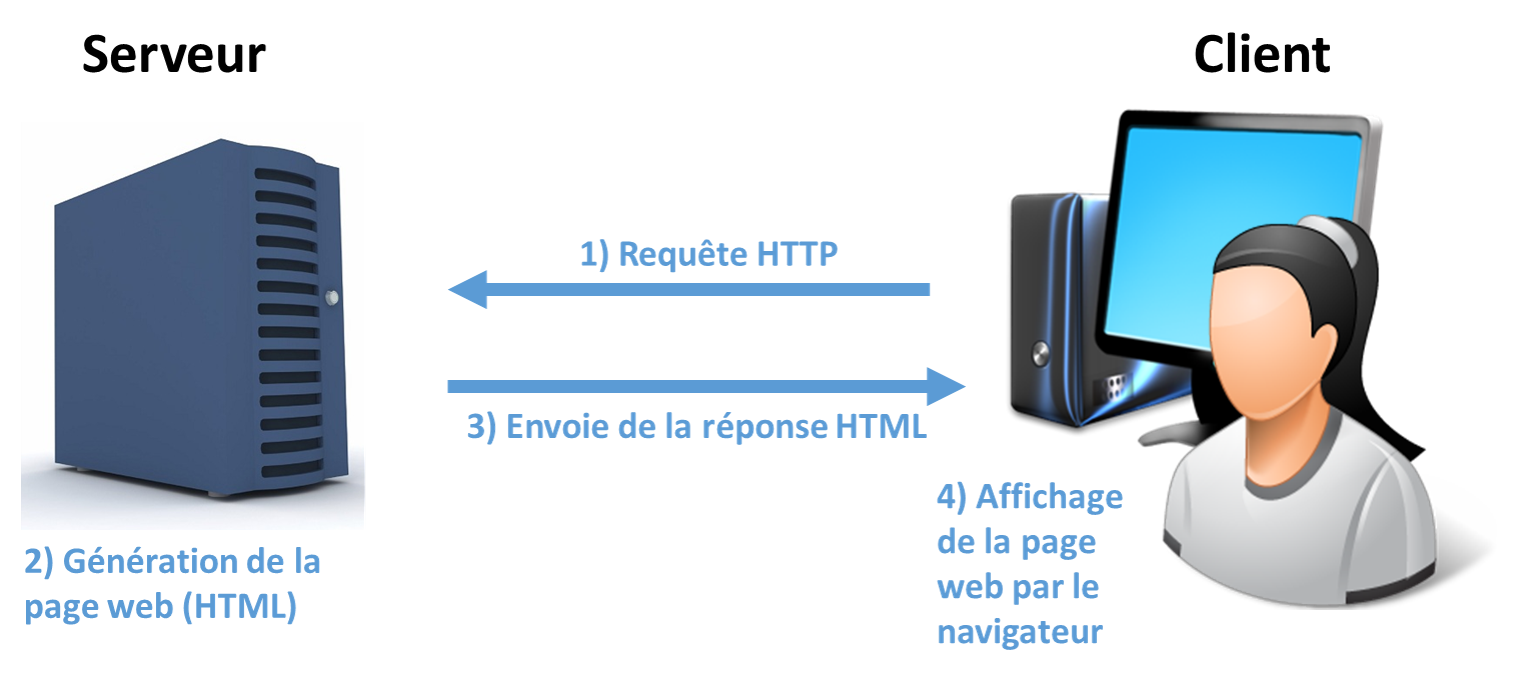
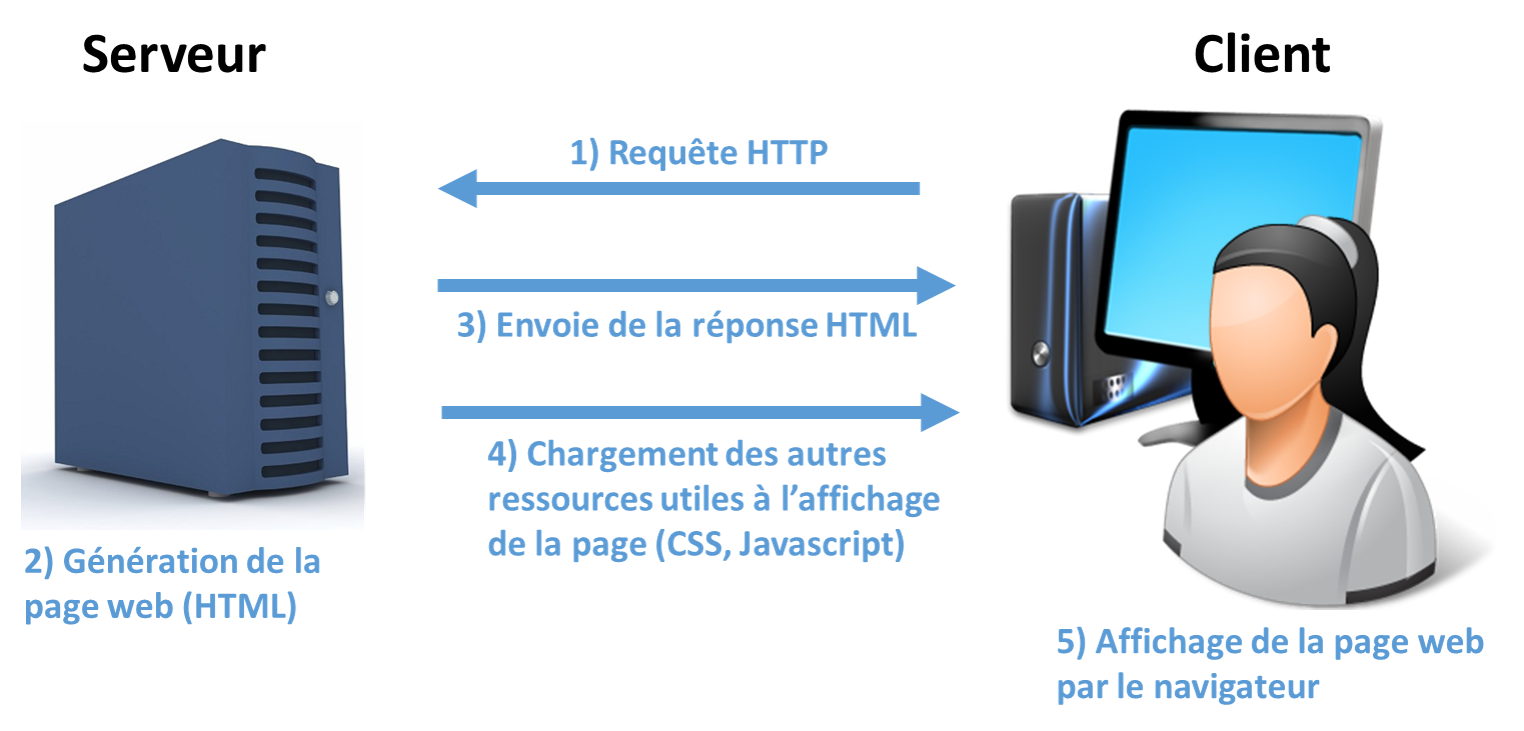
Partie 3 + page de garde :
Début page de garde + explication de l'architeture actuelle de TC

diff --git a/src/p3.tex b/src/p3.tex
@@ -2,11 +2,12 @@
 statistique}
 	\paragraph{}
 	Dans la partie précédente nous avons proposé une solution fonctionnelle aux
-	besoins exprimés par les utilisateurs. Ici, nous allons concevoir une solution
-	technique à partir des focntionnalités, puis l'implémenter. La partie A
-	présentera l'architecture actuelle de TrackCIS, dans la partie B nous
-	conceverons la solution technique et la partie C présentera la méthodologie
-	d'implémentation de cette solution. Enfin, dans la partie D, nous ferons le
+	besoins exprimés par les utilisateurs. Ici, nous allons concevoir la solution
+	technique à partir des fonctionnalités, puis l'implémenter c'est-à-dire en
+	écrire le code.
+	La partie A présentera l'architecture actuelle de TrackCIS. La partie B
+	présentra la conception de la solution technique. Enfin, la partie C présentera
+	la méthodologie d'implémentation de cette solution. Enfin, dans la partie D, nous ferons le
 	bilan de ce qui a effectivement pus être implémenté au cours de ce projet et
 	nous discuterons des limites et des biais de la méthodologie ainsi que des
 	suites possibles pour Xperis.
@@ -16,99 +17,174 @@ statistique}
 		\subsection{Qu'est-ce qu'une application web ?}
 			\paragraph{}% Modèle client serveur classique
 			TrackCIS est une application accessible depuis un navigateur internet, il
-			s'agit d'une application web. Le fonctionnement de cet type d'application est
-			basé sur le modèle client-serveur. Un client correspond au navigateur
-			internet de l'utilisateur (Chrome, FireFox\ldots), il permet de communiquer
-			avec le serveur. Le serveur est la machine sur
+			s'agit d'une application web. CLassiquement, le fonctionnement de ce type
+			d'application est basé sur le modèle dit <<client-serveur>>. Un client
+			correspond au navigateur internet de l'utilisateur (Chrome, FireFox\ldots),
+			il permet de communiquer avec le serveur. Ce dernier est une machine sur
 			laquelle est déployée l'application web. Le client envoie une requête au
-			serveur qui va la traiter et produire en retour une page web, c'est-à-dire
-			une page HTML (Hypertext Markup Language) laquelle va être renvoyée au client
-			et affichée.
-			
-			Il est installé au niveau d'un serveur,
-			généralement citué au sein de l'établissement hospitalier et connecté au
-			réseau local. La machine de l'utilisateur, que l'on appel le client, ce
-			connecte à ce serveur. Ce dernier reçoit de la part du client une requête
-			HTTP (protocole standard d'échange sur internet).
-			% Le client fait une requête à laquelle le serveur répond en envoyant une
-			% page HTML
-			
+			serveur qui va la traiter et générer en retour une page web au format HTML
+			(Hypertext Markup Language) qui est renvoyée au client puis affichée
+			(figure \ref{client_serveur}). La requête utilise le protocole HTTP
+			(Hyperttext transfert protocole) qui est le protocole standard des échanges
+			sur le net. La page HTML contient toues les inforamtions permettant au
+			navigateur d'afficher la page. Cette page peut faire appel à d'autres
+			ressources comme des pages CSS (Cascading style sheets) ou des script
+			Javascript. CSS est un langage descriptif permettant de mettre en forme le contenu de la page HTML.
+			Javascript est également un langage qui est interprété par le client et qui
+			permet de gérer les léments dynamiques de la page web (annimations, gestion
+			des évennements lorsque l'utilisateur clic sur un bouton\ldots).
 			\begin{figure}[H]
 				\centering
 				\includegraphics[width=10cm]{../img/part3/client_serveur.png}
-				\caption{\label{modele_donnee} Le serveur génère dynamiquement la page
+				\caption{\label{client_serveur} Le serveur génère dynamiquement la page
 				HTML qui sera affichée sur le poste client.}
 			\end{figure}
 			
-			% Le navigateur interprète le HTML et en affiche le contenu correspondant
-			
-			% Dans le même temps, le serveur envoi au client des scripts Javascript. Le
-			% client est capable d'interpréter ces scripts. Ils permettent de faire des
-			% interactions entre l'utilisateur et l'application sans faire d'appel au
-			% serveur
-			
 			\paragraph{}% Modèle AJAX
-			Une variante du modèle client-serveur existe, il s'agit du modèle AJAX. La
-			limite du modèle précédent est que toute la page doit être renvoyée par le
-			serveur a chaque requête (par exemple dès que l'utilisateur fait une action
-			sur la page). Cela pose deux problèmes : d'une part beaucoup de données
-			transitent entre le client et le serveur, d'autre part le rechargement
-			complet de la page prend du temps ce qui nui à l'expérience de l'utilisateur.
-			Le modèle AJAX, sur lequell repose TrackCIS, consiste à ne recharger que les
-			parties de la page qui sont nécessaire sans toucher aux autres. Par exemple,
-			dans le cas de l'affichage de la liste des messages entre une date de début
-			et une date de fin, si l'utilisateur modifie la période, seule la liste des
-			messages sera rechargée. Le reste de la page (menu, pieds de page,
-			entête\ldots) ne changera pas.
+			Une variante du modèle client-serveur permet d'en augmenté la rapidité, il
+			s'agit du modèle AJAX (Asynchronous Javascript and XML).
+			Dans le modèle précédent, toute la page doit être renvoyée par le
+			serveur à chaque requête, ce qui n'est pas forcément utile. Cela pose deux
+			problèmes :
+			d'une part beaucoup de données transitent entre le client et le serveur,
+			d'autre part le rechargement complet de la page prend du temps ce qui nuit à
+			l'expérience de l'utilisateur.
+			Le modèle AJAX, sur lequelle repose TrackCIS, consiste à ne recharger que les
+			parties de la page qui sont concernées par la modification sans toucher aux
+			autres.
+			Par exemple, dans le cas de l'affichage de la liste des messages entre une
+			date de début et une date de fin, si l'utilisateur modifie la période, seule
+			la liste des messages sera rechargée. Le reste de la page (menu, pieds de
+			page, entête\ldots) ne sera pas renvoyé par le serveur. Les appels AJAX sont
+			réalisés au niveau des scripts Javascript, donc côté client.
 			
 		\subsection{TrackCIS est composé d'un frontal et d'une API}
 			\paragraph{}% Archi générale de l'application
-			TrackCIS est divisée en deux parties
-			
+			TrackCIS sur les modèles client-serveur et AJAX. Les deux
+			premiers éléments de l'architecture sont le client (le navigateur internet
+			de l'utilisateur) et le serveur hébergant l'application web stricto-sensu,
+			que nous appelerons dans la suit le <<Frontal>> (figure
+			\ref{archi_trackcis}).
+			Celui-ci reçoit et traite les requêtes du client. Le Frontal ne communique pas directement avec
+			CLoverleaf, c'est une autre partie de l'architecture qui s'en charge : l'API.
+			API sigifi Interface de propgrammation applicatve. C'est un intermédiaire
+			entre deux applications. En l'occurence, l'API est l'intermédiaire entre le
+			Frontal, qui a pour but d'afficher une page web, et Cloverleaf. Prenons un
+			exemple : le client envoie une requête au Frontal pour afficher la liste de
+			tous les messages passé sur un flux donné durant une période donnée. Le
+			Frontal reçoi la requête et envoie à son tour une autre requête à l'API.
+			Cette dernière récupère les informations demandées auprès de CLoverleaf et
+			les transmet au Frontal. Enfin, celui-ci génère la page HTML avec la liste
+			des messages et la renvoie au client.\newline
+			API et Frontal sont deux entitées séparées, toutes deux développées par
+			Xperis. Ils ne sont généralement pas déployés sur le même serveur. L'API est
+			nécessairement installée sur le même serveur que CLoverleaf, le Frontal est
+			lui généralement installé sur un serveur à part situé au
+			sein de l'établissement hospitalier d'un serveur.
 			\begin{figure}[H]% Architecture globale de l'application
 				\centering
 				\includegraphics[width=10cm]{../img/part3/archi_trackcis.png}
 				\caption{\label{archi_trackcis} TrackCIS est composés de deux éléments
-				distincts pouvant se trouver sur des serveurs différents.}
+				distincts pouvant se trouver sur deux serveurs différents.}
 			\end{figure}
-			
-			\paragraph{}% Les bases de java et de la POO
-			Le frontal et l'API sont tous deux développés avec le langage Java.
+			Frontal et API sont tous deux développés avec le langage Java.
 			
 		\subsection{Le frontal est développé en java J2EE}
 			\paragraph{}% les grandes lignes de l'archi du front
 			Java Entreprise Edition, que nous désignerons par J2EE, est une
-			plateforme (un ensemble de bibliothèques) basée sur le langage Java et
-			destinée au développement web.
+			plateforme basée sur le langage Java et destinée au développement web. Il
+			s'agit d'un ensemble de bibliothèques Java mettant à dispostion des
+			développeurs les éléments nécessaire au développement d'une application
+			web.
+			
+			\paragraph{}
+			Java à la particularité d'être un langage orienté objet. Le code est organisé
+			en classes. Chaque classe peut possèder un certain nombre d'attributs
+			(données stockées sous la forme de variables) et de méthodes (opérations
+			que la classe est capable d'effectuer).La figure \ref{archi_actuelle_front}
+			résume l'architecture actuelle du Frontla de TrackCIS. Chaque bloc représente
+			un groupe de classes ayant des rôles similaires. Globalement, le Frontal
+			respecte l'architecture dite MVC (Modèle, contrôle, vue) qui permet de
+			diviser le code en trois grand rôle : les traitements (Modèle) la génération
+			de la page HTML (la Vue) et des classes faisant office d'intermédiaire entre
+			Modèle et Vue (les Contrpoleur). (1) La requête HTTP envoyée par le client et
+			reçue au niveau des classes dites <<contrôleur>>. Ces classes en font appel
+			à d'autres : les classes de service. Celle-ci effectuent les oppérations les
+			plus complexes (2). Les classes de répertoire (ou repositories) communiquent
+			avec la base de donnée (3). Cette dernière permet de stocker les préférences
+			des utilsateurs ainsi que d'autres données permettant de se connecter à
+			l'API (adresse du serveur de CLoverleaf, port utilisé\ldots). Les classes de
+			répertoire permettent d'envoyer des requêtes SQL à cette base de données
+			pour en lire les informations ou les mettre à jour. Lss classes de données
+			(4) contiennent essentiellement des attribue et mais peu de méthodes. Comme
+			leur nom l'indique elles permettent de stocker des données : les données
+			récupéreées par les répertoires depuis la base de donnée, ou bien les
+			données renvoyées par l'API (6). Certaines classes de services (5)
+			permettent d'envoyer des requêtes HTTP à l'API et d'en récupérer la réponse.
+			Enfin, la vue (7), c'est-à-dire la page HTML, est générée grace à la
+			technologie JSP (Java server pages). Il s'agit d'un langage proche du
+			langage html et qui permet d'en générer dynamyquement. Les pages JSP
+			utilisent les données mises à disposition par les classes contrôleur.
+			\begin{figure}[H]
+				\centering
+				\includegraphics[width=10cm]{../img/part3/archi_actuelle_front.png}
+				\caption{\label{archi_actuelle_front} Architecture simplifiée du Frontal
+				de TrackCIS. Les flèche pleine représentent les dépendances entre les
+				éléments.}
+			\end{figure}
 			
 		\subsection{L'API permet de communiquer avec Cloverleaf}
 			\paragraph{}% Les grandes lignes de l'archi de l'API
 			L'API est développée avec la plateforme standard de Java ou Java SE (Standard
-			edition) qui n'est pas destinée au développement web.
+			edition) qui n'est pas destinée au développement web. En efet l'API n'est pas
+			une application web, il s'agit d'un petit programme qui s'execute sur le même
+			serveur que CLoverleaf et qui permet d'intéragir avec lui. L'API est
+			cependant capable de reçevoir et d'interpréter des requêtes HTTP. Ceci est
+			rendu possible grâce à la technologie Vertx. Il s'agit d'un ensemble de
+			bibliothèque permettant mettant à disposition des développeurs des outils
+			pour gérer la réception de requêtes HTTP.
+			
+			\paragraph{}
+			On retrouve dans l'API des éléments similaire à ceux du Frontal. Tout d'abord
+			un classe jouant le rôle de contrôleur permet de récupérer la reqûete HTTP
+			envoyée par le Frontal et d'envoyer une réponse (figure
+			\ref{archi_actuelle_api}, (1))). La réponse contient toutes les données
+			demandées par le requête, pour la construire le contrôleur fait appel à des
+			classes de services (2). Celles-ci vont se connecter à Cloverleaf et
+			récupérer les informations demandées dans certaines bases de données de l'EAI. Les
+			classes de services vont ensuite créer des classes de données (3) qui vont
+			permettre au contrôleur de construir la réponse.
+			\begin{figure}[H]
+				\centering
+				\includegraphics[width=9cm]{../img/part3/archi_actuelle_api.png}
+				\caption{\label{archi_actuelle_api} Architecture simplifiée de l'API de
+				TrackCIS.}
+			\end{figure}
 	
 	\section{L'analyse technique permet d'implémenter le nouveau module sur
 	l'existant}
 		\paragraph{}
 		A présent que nous savons comment est construit TrackCIS, nous pouvons
-		commencer la conception de la solution. Cette phase précède le développement à
-		proprement parler. On cherche a définir tous les éléments techniques qui
-		composerons le module statistique de TrackCIS, à savoir :
+		commencer la conception du module statistique. Cette phase précède le
+		développement à proprement parler. Son but est de cherches à définir tous les
+		éléments techniques qui composerons le module, à savoir :
 		\begin{itemize}
 		  \item L'architecture, autrement dit la manière dont le code est structuré
 		  \item Les outils utilisés, les bibliothèques, frameworks\ldots
-		  \item Le modèle de données
-		  \item 
+		  \item Le modèle de données, c'est-à-dire la stcuture de la base de données
 		\end{itemize}
-		
-		\begin{figure}[H]% Méthodo de la conception
-			\centering
-			\includegraphics[width=15cm]{../img/part3/methodo_conception.png}
-			\caption{\label{methodo_conception} Méthodologie de la conception du
-			nouveau module.}
-		\end{figure}
+		La contrainte est de nous adapter à l'architecture existante. Nous souhaitons
+		y <<greffer>> le module statistique sans changer ce qui a déjà été mis en
+		place que ce soit au niveau de l'API, du Frontal ou de la base de données.
 		
 		\subsection{Un module qui est basé sur les données disponibles dans
 		Cloverleaf}
+			\paragraph{}
+			Les statistiques qui nous intéressent sont des données sauvegardées par l'EAI
+			dans des base de données. LEs statistiques sont sauvegardées automatiquement
+			à intervalles réguliers.
+		
+		
 		\subsection{Nouvelle architecture de l'application}
 			\paragraph{}% Une archi dessinée à partir des contraintes fonctionnelles
 			Le module statistique de TrackCIS doit~:
@@ -246,14 +322,34 @@ statistique}
 		
 		\subsection{Une méthodologie qui s'inspire des méthodes agiles}
 			\paragraph{}% C'est quoi l'agilité et pourquoi ce choix
-			
-			L'<<équipe>> projet étant composée d'une seule personne, moi, je vais bien
-			niquer ma race !
-			
-			\paragraph{}% Les sprints
+			Pour cette dernière étape nous nous insprirons des méthodes agile, nottement
+			de la méthode Scrum. La méthode Scrum est basée sur des ittérations
+			succèssives, les Sprint. A chaque ittération, un petit morceau d'application
+			est présenté au commanditaire, dans notre cas Xperis. Ceci permet d'obtenir
+			un produit final qui colle au plus près des attentes du commanditaire puisque
+			celui-ci devient un acteur à part entière du projet. A chaque ittération il
+			peut en effet donner son avi sur ce qui a été développé et demander des
+			améliorations ou changer ce qui avait été initaliement prévu pour le sprint
+			suivant.
 			
 			\paragraph{}% Le backlog et les US
+			Le développement d'une application en sprints implique d'être en mesure de
+			produire quelque chose de présentable à l'issue du sprint, donc de visuel.
+			Cela implique également de ségmenter l'application en petites parties que
+			l'on pourra développée indépendament les unes des autres : les user stories.
+			Une user story correspond à une petite histoire d'utilisation de
+			l'application, c'est un petit morceau de l'epérience de l'utilisateur. Voici
+			quelques exemples d'user stories :
+			\begin{itemize}
+			  \item 
+			\end{itemize}
 			
+			\paragraph{}% Les sprints
+			Nous chaoisirons des sprint d'une durée de deux semaine. Un sprint se déroule
+			en suivant les étapes suivantes :
+			\begin{itemize}
+			  \item[1) ] 
+			\end{itemize}
 			
 			
 			\begin{figure}[H]% Méthodo du développement

diff --git a/src/glossaire.tex b/src/glossaire.tex
@@ -1,0 +1,8 @@
+\chapter{Gossaire}
+	\begin{description}
+		\item[Application (web)]
+		\item[Bibliothèque]
+		\item[Implémenter]
+		\item[Framework]
+		\item[Client (web)]
+	\end{description}
